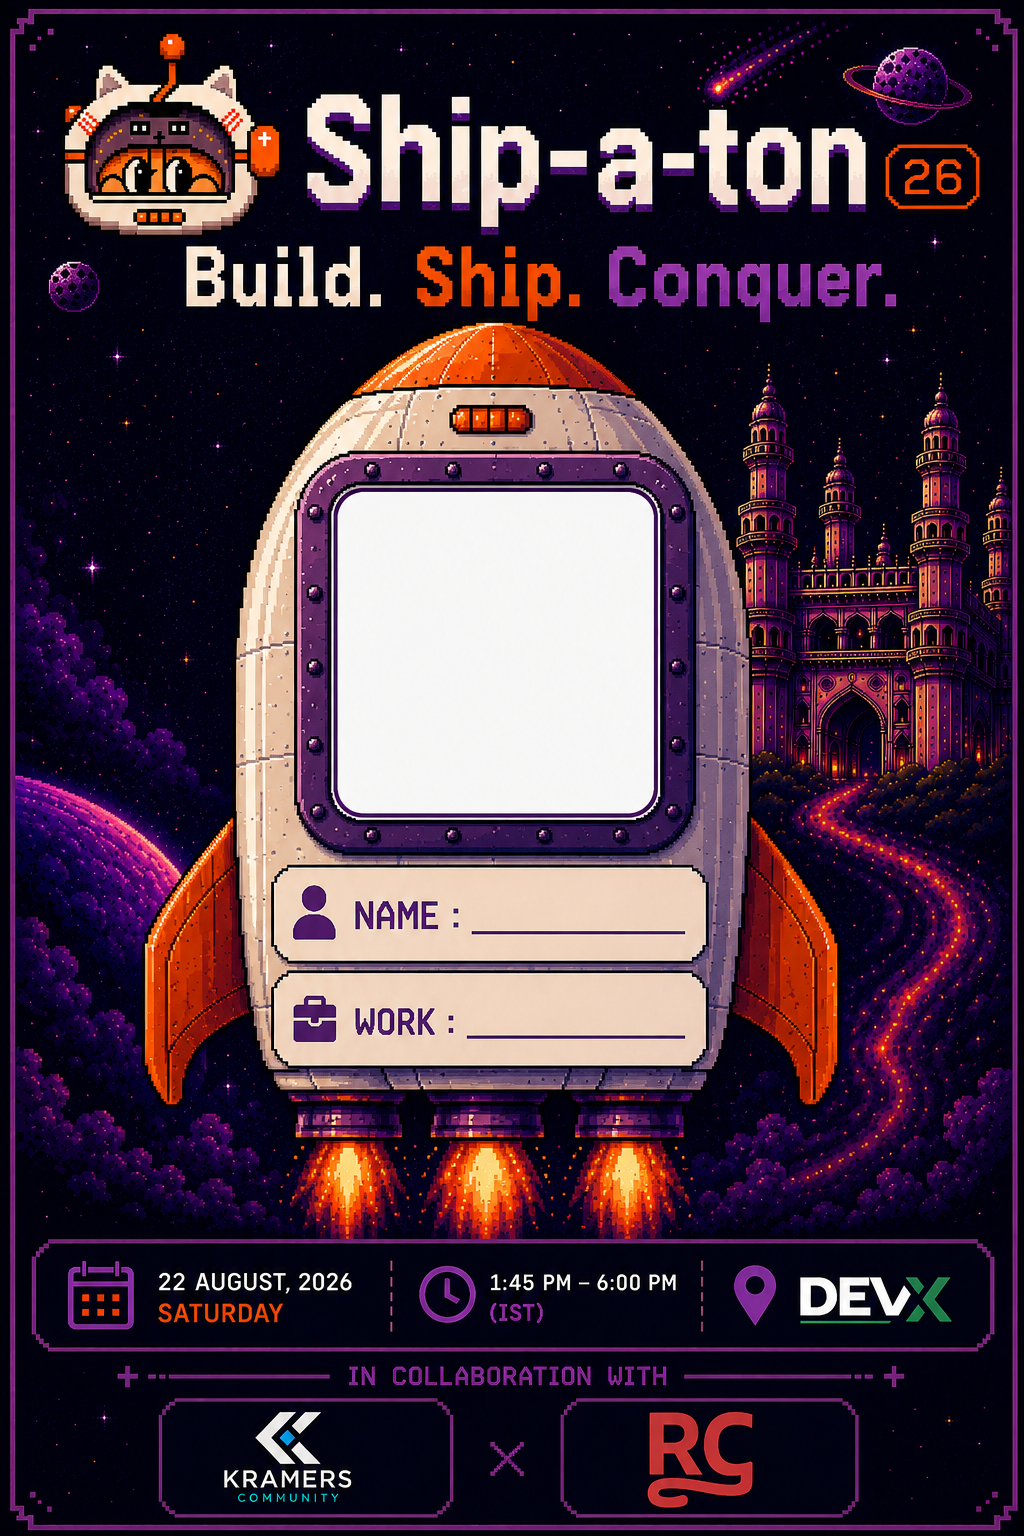
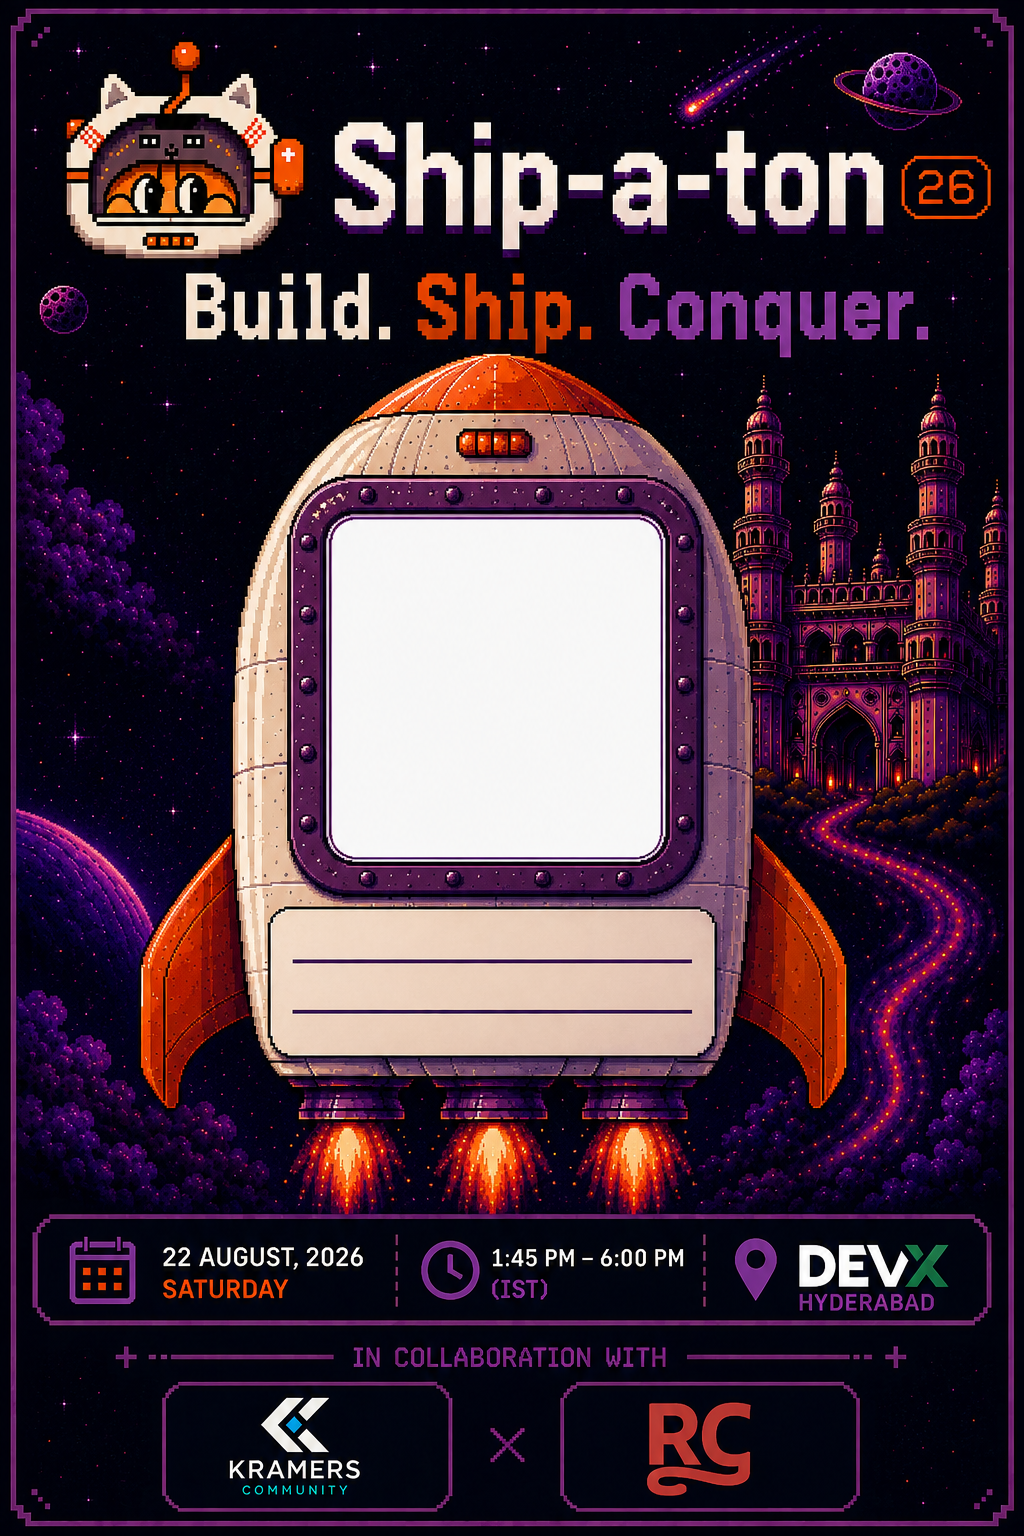
version 1 with improved template

diff --git a/src/utils/ticketGenerator.js b/src/utils/ticketGenerator.js
@@ -12,26 +12,26 @@ export const generateTicketCanvas = async (name, role, photoFile) => {
       const TEMPLATE_URL = "/template.png";
 
       // -------------------------
-      // PHOTO WINDOW BOUNDS (Rocket screen)
+      // PHOTO WINDOW BOUNDS (Positioned inside rocket window)
       // -------------------------
-      // -------------------------
-// PHOTO POSITION
-// -------------------------
-      const PHOTO_X = 333;
-      const PHOTO_Y = 490;
-      const PHOTO_WIDTH = 324;
-      const PHOTO_HEIGHT = 324;
+      const PHOTO_X = 326;
+      const PHOTO_Y = 514;
+      const PHOTO_WIDTH = 344;
+      const PHOTO_HEIGHT = 344;
       const CORNER_RADIUS = 28;
 
-
       // -------------------------
-      // TEXT POSITIONS
+      // TEXT POSITIONS (Middle-aligned on rocket lines)
       // -------------------------
-      const NAME_X = 465;
-      const NAME_Y = 910;
+      const lefttext = 294;
+      const righttext = 685;
+      const CENTER_X = (lefttext + righttext) / 2;
 
-      const WORK_X = 465;
-      const WORK_Y = 1020;
+      const NAME_X = CENTER_X;
+      const NAME_Y = 945;
+
+      const WORK_X = CENTER_X;
+      const WORK_Y = 995;
 
       const imgTemplate = new Image();
       const imgUser = new Image();
@@ -90,29 +90,29 @@ export const generateTicketCanvas = async (name, role, photoFile) => {
             ctx.restore();
 
             // -------------------------
-            // Draw Name (max 14 chars)
+            // Draw Name (middle-aligned, max 20 chars)
             // -------------------------
-            ctx.textAlign = "left";
+            ctx.textAlign = "center";
             ctx.textBaseline = "middle";
 
-            ctx.fillStyle = "#000000ff";
-            ctx.font = "bold 28px 'Courier New', monospace, sans-serif";
+            ctx.fillStyle = "#000000";
+            ctx.font = "bold 35px 'Courier New', monospace, sans-serif";
 
             ctx.fillText(
-              name.trim().slice(0, 14),
+              name.trim().slice(0, 20),
               NAME_X,
               NAME_Y
             );
 
             // -------------------------
-            // Draw Work / Role (max 14 chars)
+            // Draw Work / Role (middle-aligned, max 20 chars)
             // -------------------------
             if (role && role.trim() !== "") {
               ctx.fillStyle = "#000000";
-              ctx.font = "bold 28px 'Courier New', monospace, sans-serif";
+              ctx.font = "bold 35px 'Courier New', monospace, sans-serif";
 
               ctx.fillText(
-                role.trim().slice(0, 14),
+                role.trim().slice(0, 20),
                 WORK_X,
                 WORK_Y
               );

diff --git a/src/components/InputForm.jsx b/src/components/InputForm.jsx
@@ -113,14 +113,14 @@ const InputForm = ({ onSubmit }) => {
 
       {/* Name */}
       <div className="form-group">
-        <label>Name (Max 14 chars)</label>
+        <label>Name (Max 20 chars)</label>
 
         <input
           className="form-input"
           type="text"
           placeholder="Enter your name"
           value={name}
-          maxLength={14}
+          maxLength={20}
           onChange={(e) => setName(e.target.value)}
           required
         />
@@ -128,14 +128,14 @@ const InputForm = ({ onSubmit }) => {
 
       {/* Role */}
       <div className="form-group">
-        <label>Company / Designation (Optional, Max 14 chars)</label>
+        <label>Company / Designation (Optional, Max 20 chars)</label>
 
         <input
           className="form-input"
           type="text"
           placeholder="e.g. AI Engineer"
           value={role}
-          maxLength={14}
+          maxLength={20}
           onChange={(e) => setRole(e.target.value)}
         />
       </div>
